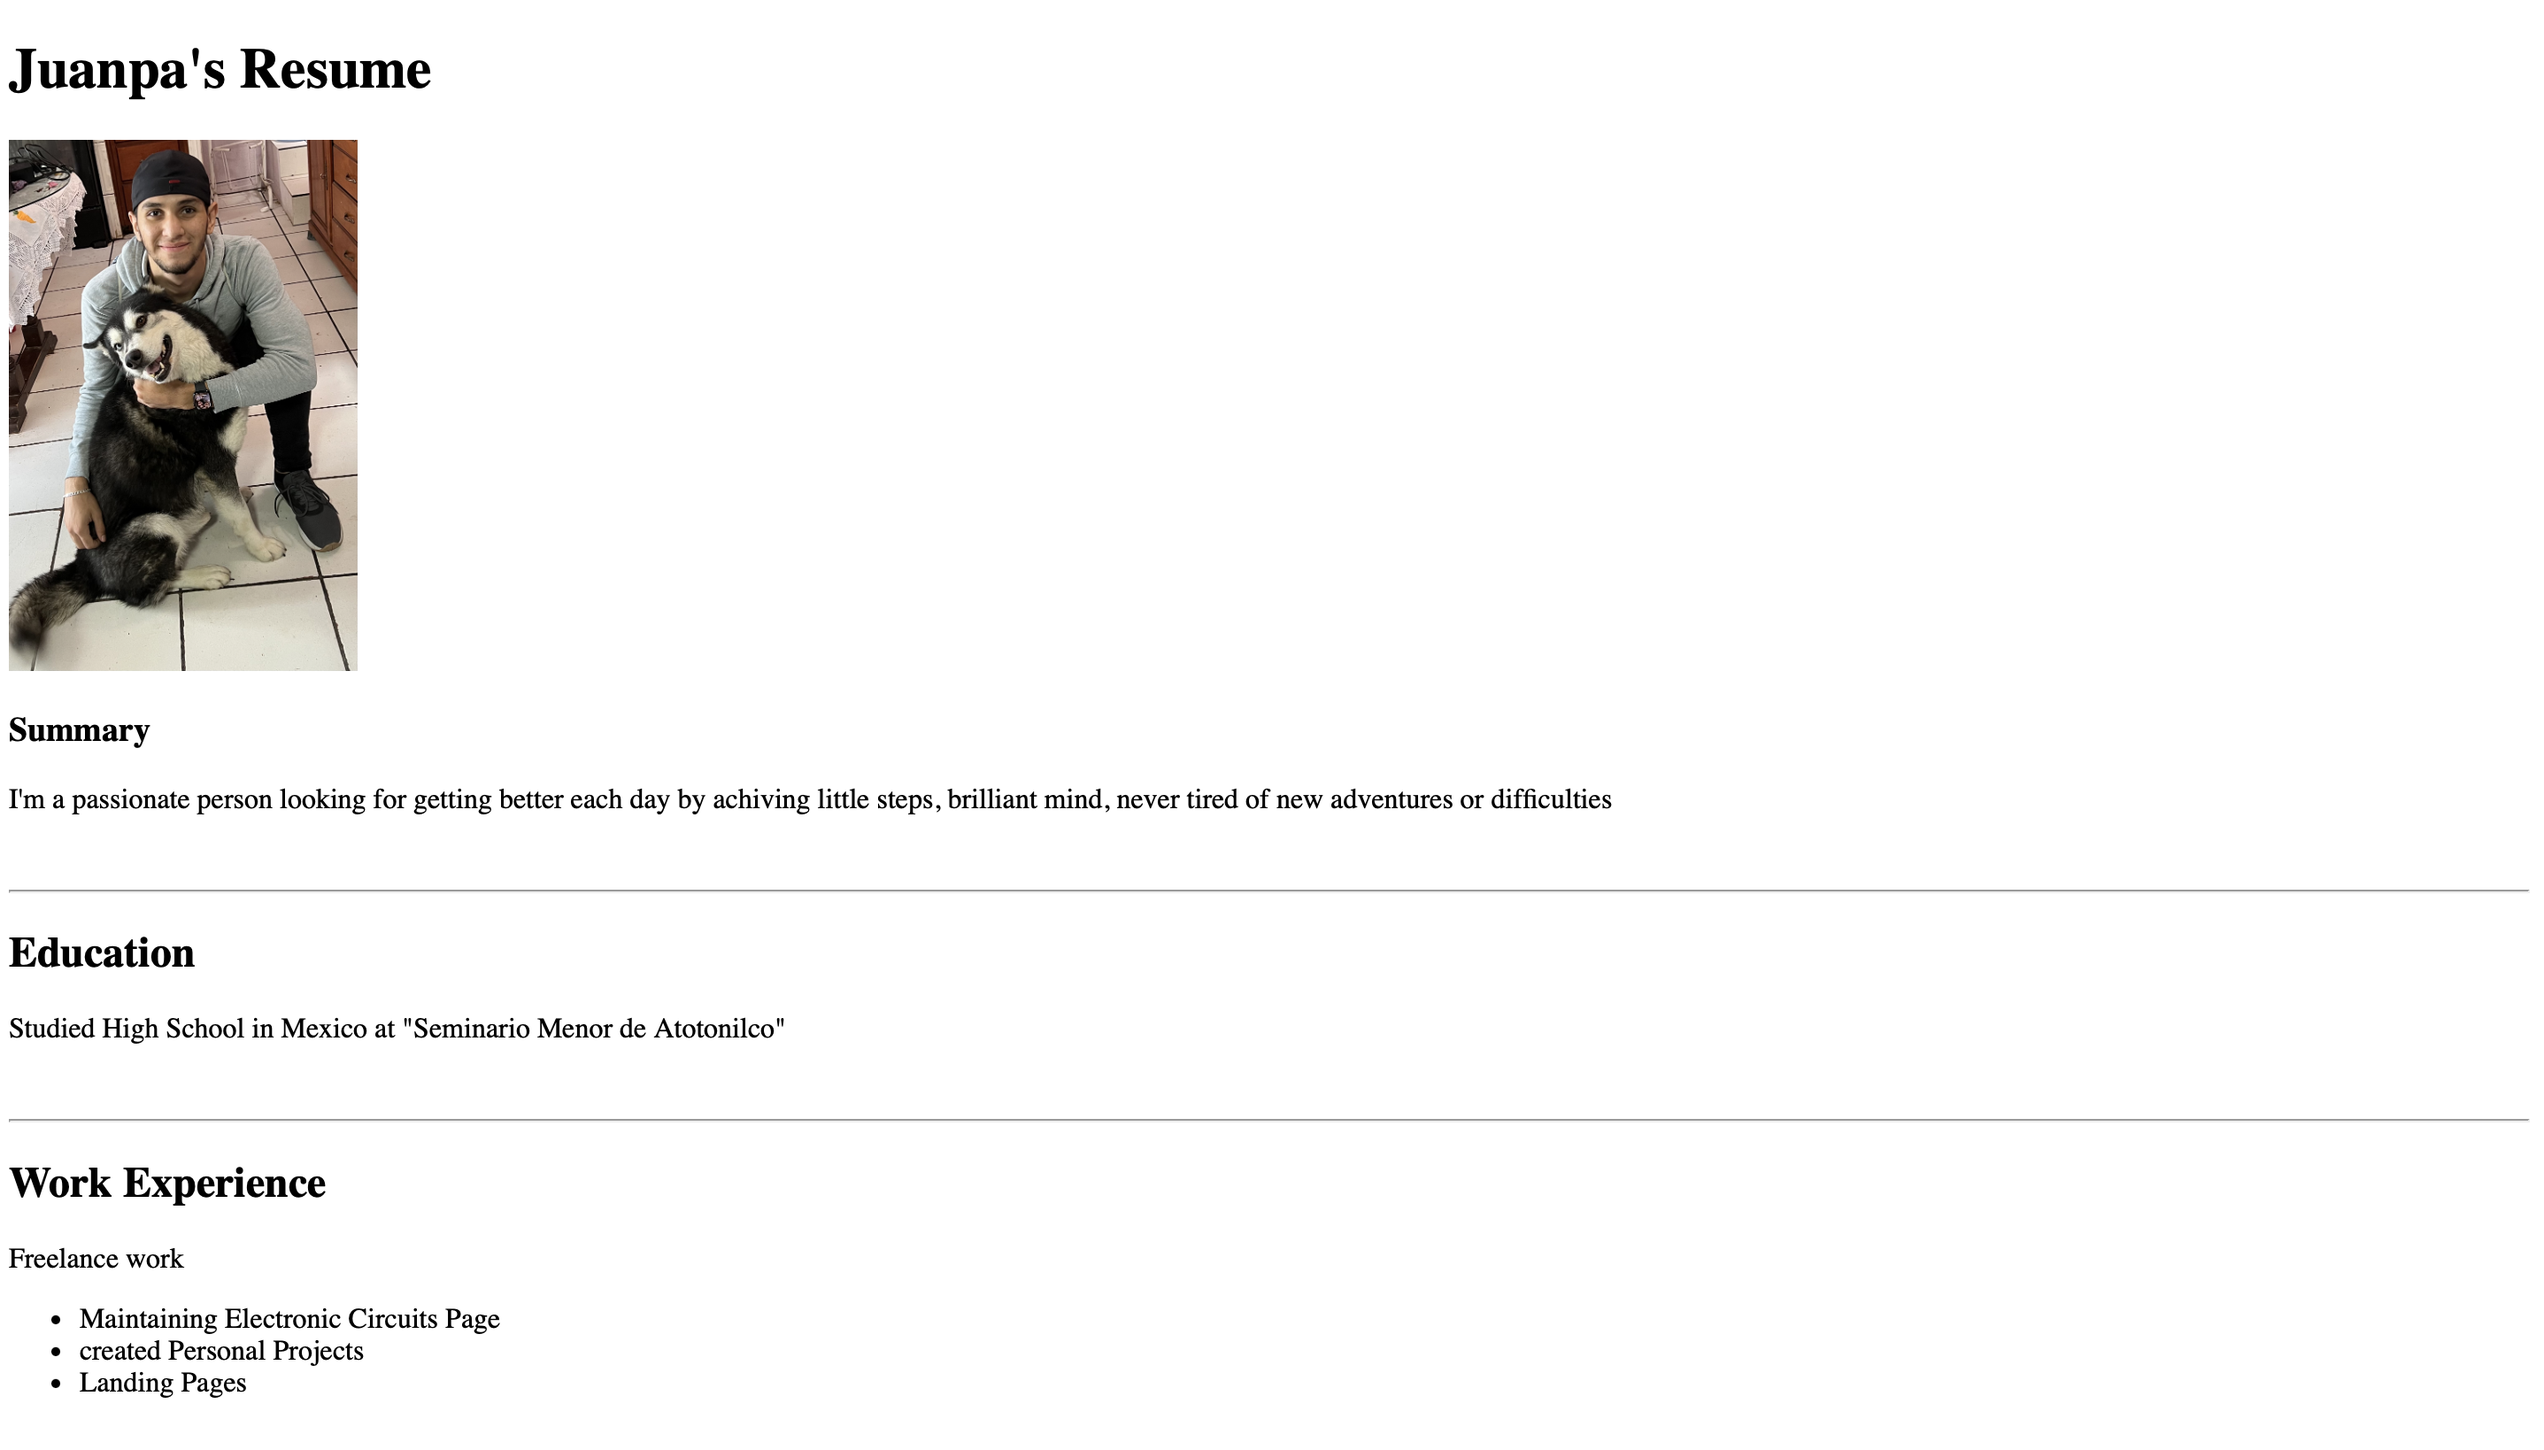
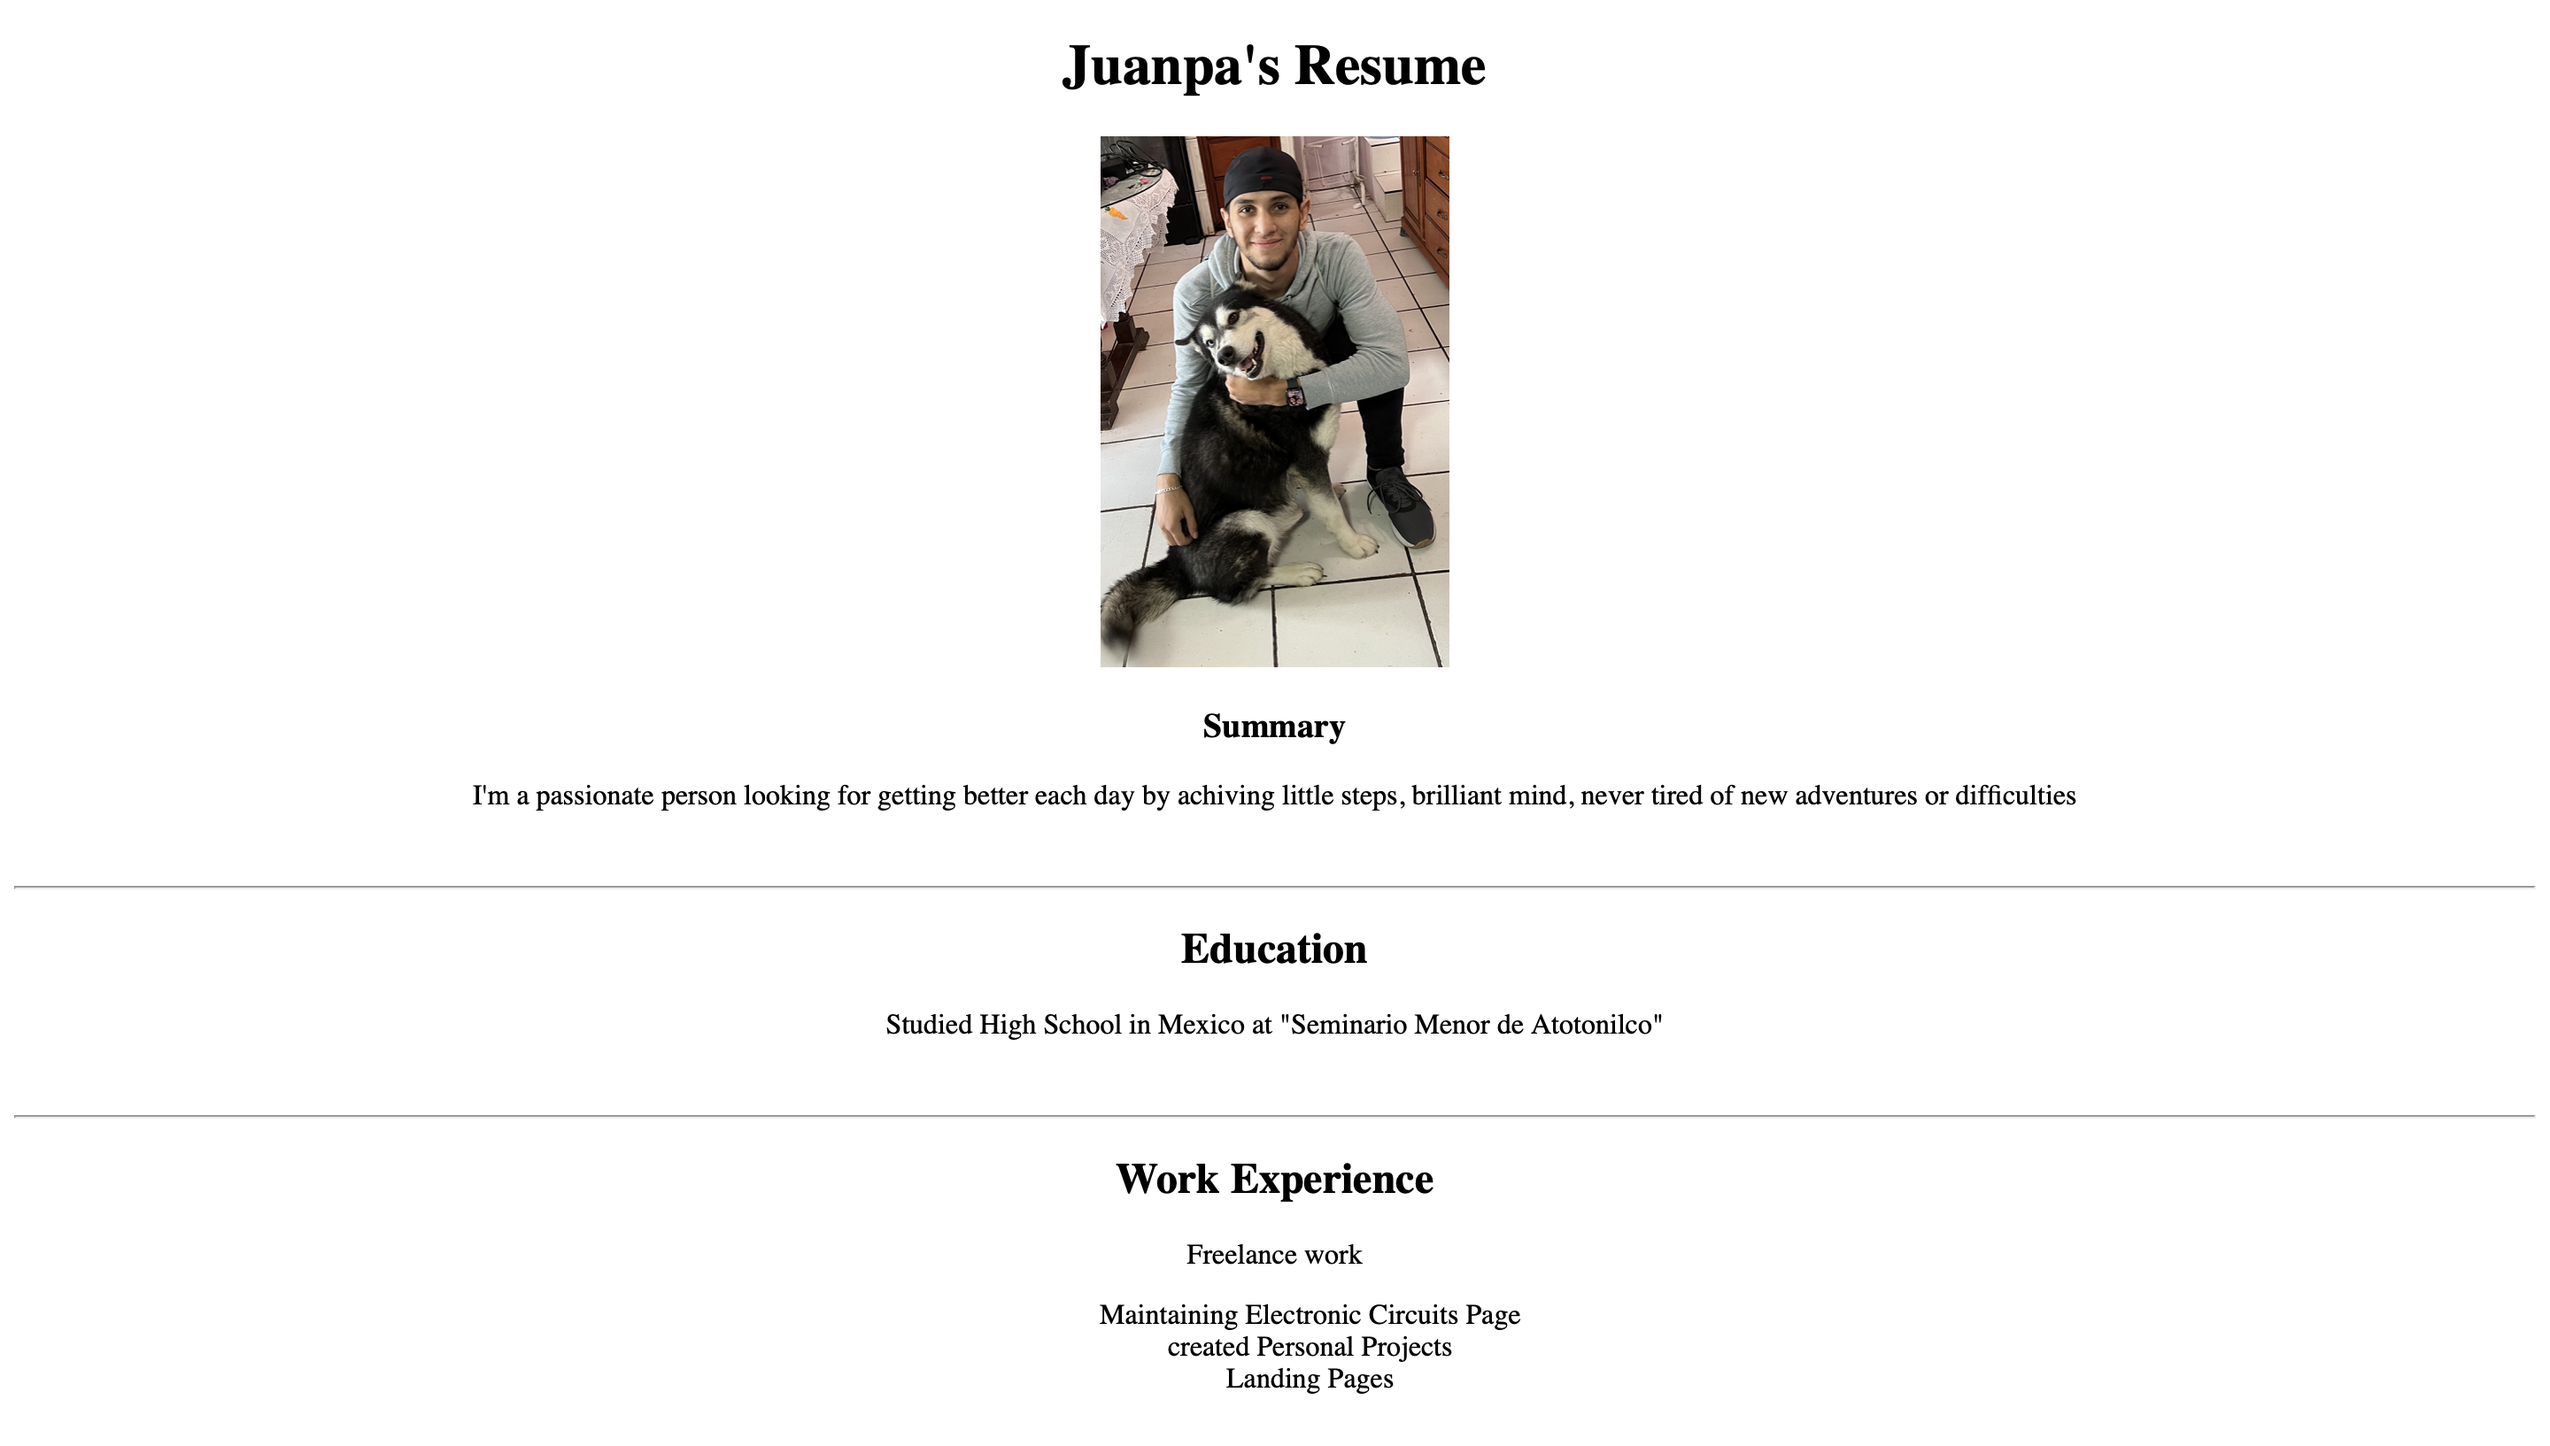
modified index and readme

diff --git a/index.html b/index.html
@@ -5,11 +5,20 @@
     <meta charset="UTF-8">
     <meta name="viewport" content="width=device-width, initial-scale=1.0">
     <title>Resume</title>
+    <style>
+        body {
+            text-align: center;
+        }
+
+        ul {
+            list-style: none;
+        }
+    </style>
 </head>
 
 <body>
     <h1>Juanpa's Resume</h1>
-    <img src="./IMG_1490.jpeg" alt="Personal Photo" height="300px">
+    <img src="./personalPhoto.jpeg" alt="Personal Photo" height="300px">
     <h3>Summary</h3>
     <p>I'm a passionate person looking for getting better each day by achiving little steps, brilliant mind, never tired
         of new adventures or difficulties</p>

diff --git a/README.md b/README.md
@@ -1,5 +1,8 @@
 ## Udemy Project Resume
 Angela Ju Resume Project done with mock up
+
+https://juanpa123locko.github.io/UdemyResumePrjct/
+
 ### Mock up
 <img src="./Mockup.jpeg" alt="Mockup" width="300"/>
 
